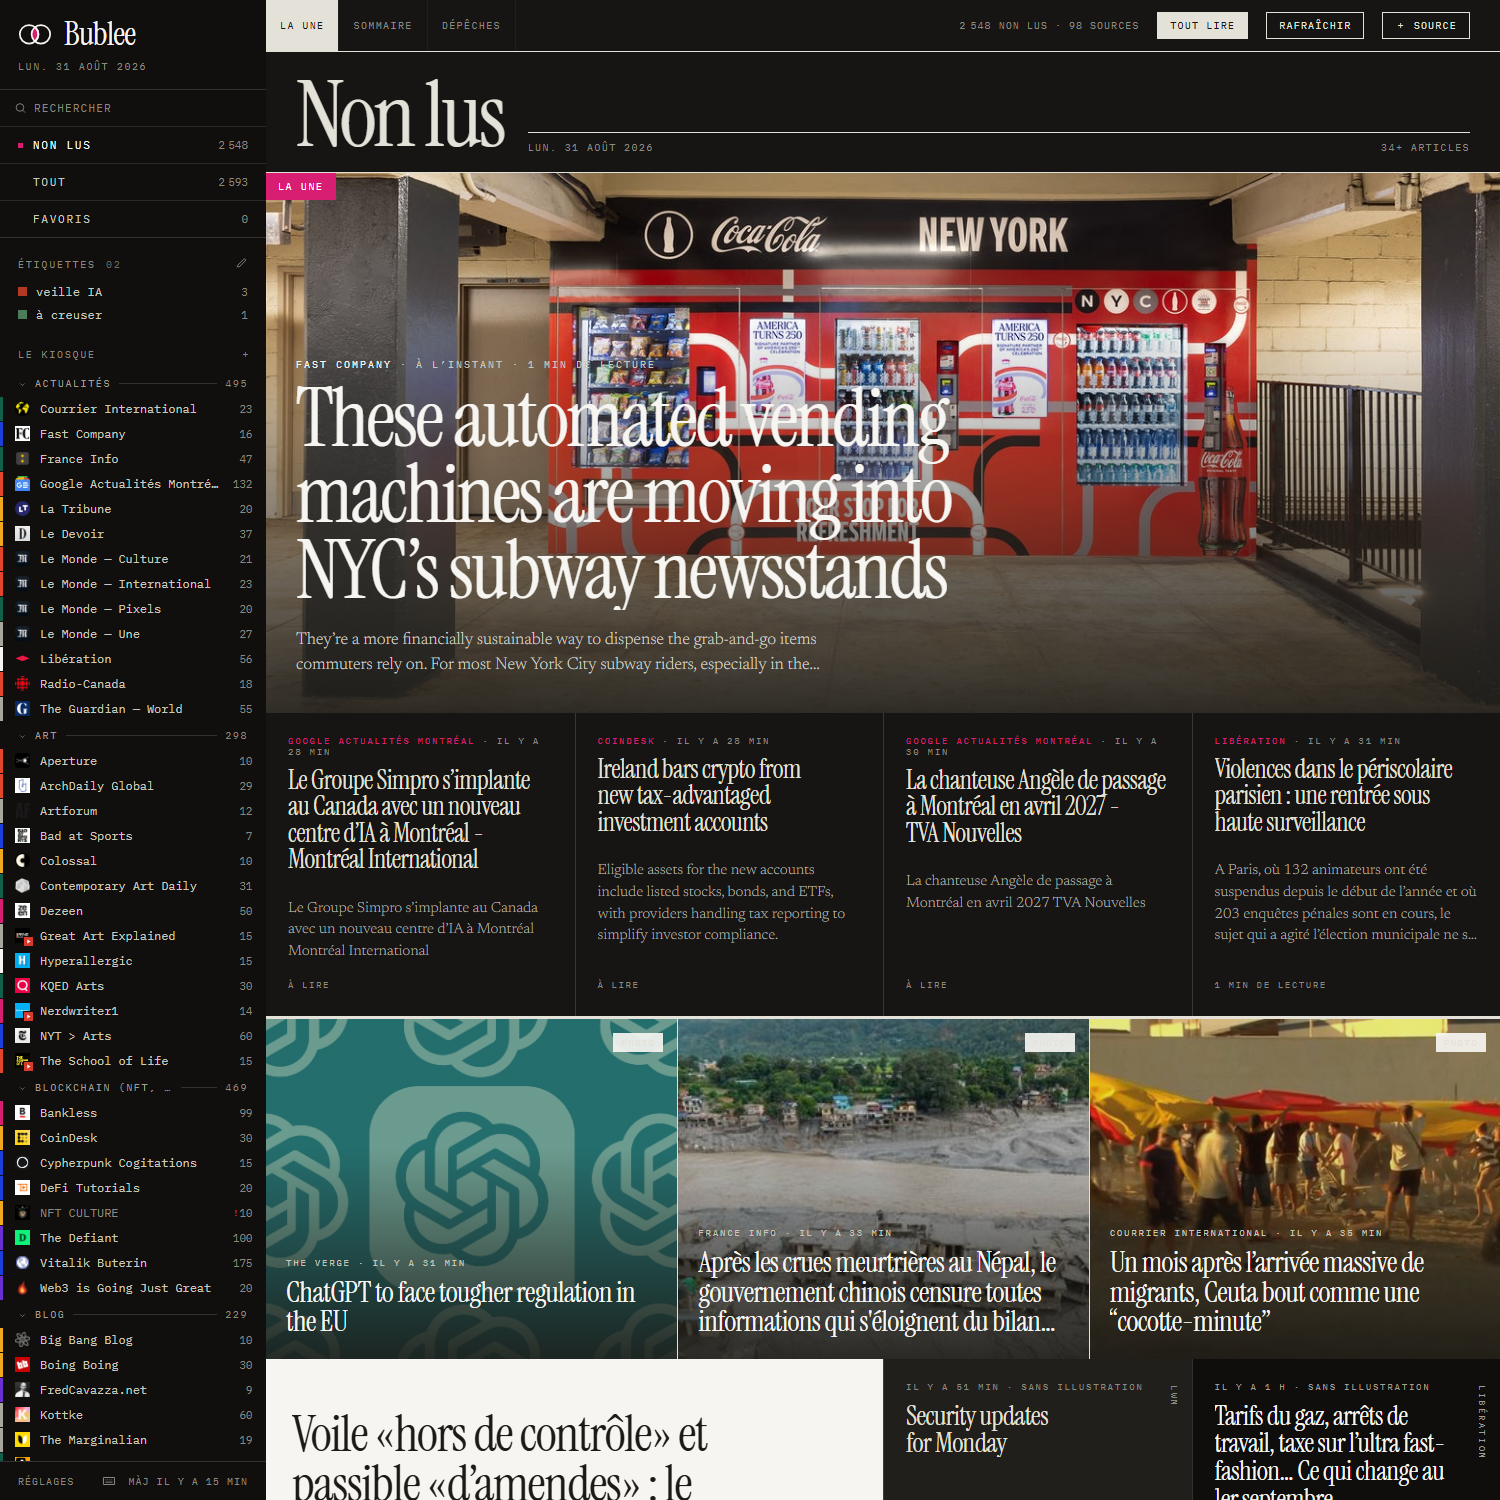
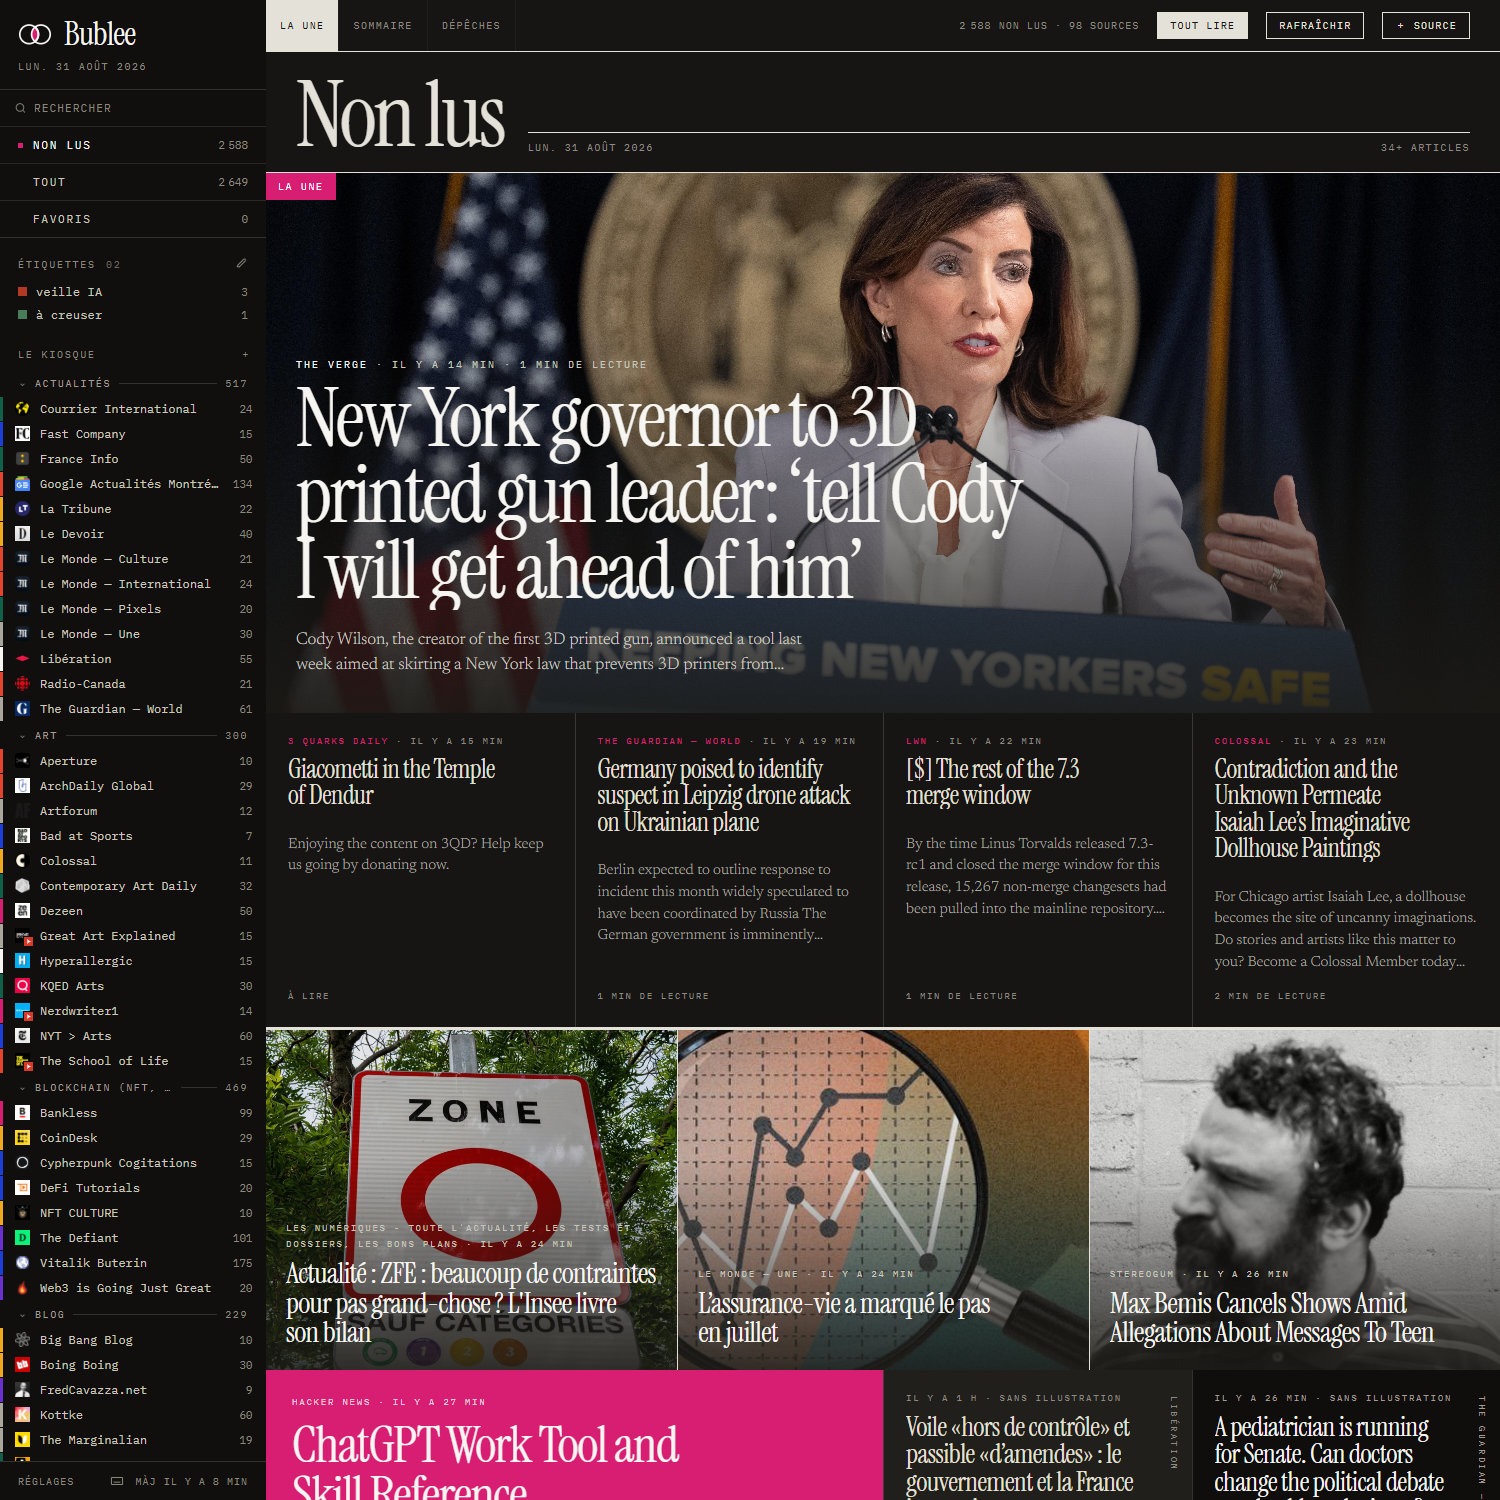
Partage depuis les vues, pictogrammes, et plus de pastille « photo »
Le libellé « ＋ Étiquette » prenait la largeur d'un titre de dépêche. Deux
pictogrammes le remplacent — une étiquette, un partage — séparés d'un filet
comme partout ailleurs dans la page : 56 px au lieu de 110.

Le partage ouvre les destinations : courriel, WhatsApp, Telegram, copier le
lien, et la feuille de partage du système sur les navigateurs qui la portent.
Cette dernière ligne n'apparaît que si navigator.share existe vraiment —
un bouton qui ne ferait rien est pire que pas de bouton. `P` fait la même
chose sur l'article au curseur, ou sur celui qu'on lit, en s'ancrant alors à
la barre du lecteur puisque la carte est cachée derrière le panneau.

Rien n'est envoyé par Bublee : chaque destination ouvre sa propre fenêtre de
rédaction, pré-remplie du titre et du lien.

Le glyphe de partage est celui que tout le monde lit — trois nœuds reliés —
plutôt que la flèche sortant d'un bac, ambiguë à 14 px. Ses nœuds sont pleins :
en anneaux ils se refermeraient en taches à cette taille.

Enfin, le mur d'images n'annonce plus « photo » sur chaque image. La pastille
ne sert qu'à dire ce qui ne se voit pas : la durée d'une vidéo ou d'un son.

diff --git a/public/js/app.js b/public/js/app.js
@@ -369,7 +369,9 @@ function blocMur(liste) {
       ? `<span class="badge video">▶ ${esc(duree(a.duration) || 'vidéo')}</span>`
       : estAudio(a)
         ? `<span class="badge audio">◆ ${esc(duree(a.duration))}</span>`
-        : '<span class="badge">Photo</span>';
+        // Une image dans un mur d'images n'a pas besoin qu'on la dise image.
+        // La pastille ne sert qu'à annoncer ce qui ne se voit pas : une durée.
+        : '';
     return `
       <button class="tuile art${classeLue(a)}${curseur(a)}" ${attrs(a)} data-open="${a.id}">
         <img src="${esc(relais(a.image))}" alt="" loading="lazy">
@@ -773,7 +775,7 @@ function marquerSurvol(carte) {
 
 function survolCarte(carte) {
   const zone = $('#artActions');
-  if (popId !== null) return;                       // pendant l'édition, il ne bouge plus
+  if (popId !== null || partageId !== null) return;  // un popover ouvert le fige
   if (!carte) { zone.hidden = true; marquerSurvol(null); return; }
   marquerSurvol(carte);
 
@@ -811,19 +813,13 @@ function renderPopTags() {
 
 function ouvrirPopTags(id, ancre) {
   if (!state.articles.some((a) => a.id === id)) return;
+  fermerPartage();
   popId = id;
   const pop = $('#tagPop');
   pop.hidden = false;
   renderPopTags();
 
-  // Le popover se pose sous l'ancre, ou au-dessus s'il n'y a pas la place.
-  const r = ancre.getBoundingClientRect();
-  const largeur = pop.offsetWidth;
-  const hauteur = pop.offsetHeight;
-  pop.style.left = Math.round(Math.min(Math.max(10, r.right - largeur), innerWidth - largeur - 10)) + 'px';
-  pop.style.top = Math.round(r.bottom + 8 + hauteur < innerHeight
-    ? r.bottom + 8
-    : Math.max(10, r.top - 8 - hauteur)) + 'px';
+  poserContre(pop, ancre);
 
   $('#tagPopInput').value = '';
   $('#tagPopInput').focus();
@@ -835,6 +831,99 @@ function fermerPopTags() {
   $('#tagPop').hidden = true;
   $('#artActions').hidden = true;
   marquerSurvol(null);
+}
+
+/* ------------------------------------------------------------- partager --- */
+
+let partageId = null;
+
+/** Pose un popover contre son ancre : dessous s'il y a la place, dessus sinon. */
+function poserContre(pop, ancre) {
+  const r = ancre.getBoundingClientRect();
+  const l = pop.offsetWidth;
+  const h = pop.offsetHeight;
+  pop.style.left = Math.round(Math.min(Math.max(10, r.right - l), innerWidth - l - 10)) + 'px';
+  pop.style.top = Math.round(r.bottom + 8 + h < innerHeight ? r.bottom + 8 : Math.max(10, r.top - 8 - h)) + 'px';
+}
+
+function ouvrirPartage(id, ancre) {
+  const a = state.articles.find((x) => x.id === id);
+  if (!a || !a.url) { toast('Cet article n’a pas de lien à partager.', 'bad'); return; }
+  fermerPopTags();
+  partageId = id;
+
+  const pop = $('#sharePop');
+  $('#sharePopTitre').textContent = a.title;
+  // La feuille de partage du système n'existe pas partout : on ne propose la
+  // ligne que si le navigateur la porte vraiment.
+  $('[data-partage="systeme"]', pop).hidden = typeof navigator.share !== 'function';
+  pop.hidden = false;
+  poserContre(pop, ancre);
+  $('[data-partage]:not([hidden])', pop)?.focus();
+}
+
+function fermerPartage() {
+  if (partageId === null) return;
+  partageId = null;
+  $('#sharePop').hidden = true;
+  $('#artActions').hidden = true;
+  marquerSurvol(null);
+}
+
+/**
+ * Ouvre le canal choisi avec l'article pré-rempli. Rien n'est envoyé d'ici :
+ * chaque destination ouvre sa propre fenêtre de rédaction, c'est toi qui postes.
+ */
+async function partager(canal) {
+  const a = state.articles.find((x) => x.id === partageId);
+  if (!a) return;
+  const titre = a.title;
+  const lien = a.url;
+  const texte = `${titre}\n${lien}`;
+
+  if (canal === 'copier') {
+    try {
+      await navigator.clipboard.writeText(lien);
+      toast('Lien copié.');
+    } catch (error) {
+      toast('Copie refusée par le navigateur : ' + error.message, 'bad');
+    }
+    fermerPartage();
+    return;
+  }
+
+  if (canal === 'systeme') {
+    try {
+      await navigator.share({ title: titre, text: titre, url: lien });
+    } catch (error) {
+      // L'utilisateur qui referme la feuille lève AbortError : ce n'est pas une panne.
+      if (error.name !== 'AbortError') toast('Partage : ' + error.message, 'bad');
+    }
+    fermerPartage();
+    return;
+  }
+
+  const destinations = {
+    mail: () => {
+      location.href = `mailto:?subject=${encodeURIComponent(titre)}&body=${encodeURIComponent(texte)}`;
+    },
+    whatsapp: () => window.open('https://wa.me/?text=' + encodeURIComponent(texte), '_blank', 'noopener'),
+    telegram: () => window.open(
+      `https://t.me/share/url?url=${encodeURIComponent(lien)}&text=${encodeURIComponent(titre)}`,
+      '_blank', 'noopener'
+    )
+  };
+  destinations[canal]?.();
+  fermerPartage();
+}
+
+/** Ouvre le partage sur l'article au curseur — ce que fait `P` hors lecteur. */
+function partageSurCurseur() {
+  const id = articleCourant();
+  if (id === null) return;
+  // Lecteur ouvert : on s'ancre à sa barre, la carte est cachée derrière.
+  const ancre = state.openId === id ? $('.reader-bar') : $(`.art[data-id="${id}"]`);
+  if (ancre) ouvrirPartage(id, ancre);
 }
 
 /** Ouvre le popover sur l'article au curseur — c'est ce que fait `T` hors lecteur. */
@@ -933,6 +1022,7 @@ function onKey(event) {
   const key = event.key;
 
   if (key === 'Escape') {
+    if (partageId !== null) return fermerPartage();
     if (popId !== null) return fermerPopTags();
     if (!$('#reader').hidden) return closeReader();
     if (!$('#modalShade').hidden) return closeModals();
@@ -993,6 +1083,8 @@ function onKey(event) {
     if (a?.url) window.open(a.url, '_blank', 'noopener');
     return;
   }
+  if (key === 'p') { event.preventDefault(); partageSurCurseur(); return; }
+
   // `T` étiquette : le champ du lecteur s'il est ouvert, sinon l'article au curseur.
   if (key === 't') {
     event.preventDefault();
@@ -1380,11 +1472,19 @@ function wireEvents() {
     survolCarte(e.target.closest('.art'));
   });
   scroller.addEventListener('pointerleave', () => survolCarte(null));
-  scroller.addEventListener('scroll', () => { if (popId !== null) fermerPopTags(); });
+  scroller.addEventListener('scroll', () => { fermerPopTags(); fermerPartage(); });
 
   $('#artTagBtn').addEventListener('click', (e) => {
     e.stopPropagation();
     ouvrirPopTags(Number($('#artActions').dataset.id), $('#artActions'));
+  });
+  $('#artShareBtn').addEventListener('click', (e) => {
+    e.stopPropagation();
+    ouvrirPartage(Number($('#artActions').dataset.id), $('#artActions'));
+  });
+  $('#sharePop').addEventListener('click', (e) => {
+    const ligne = e.target.closest('[data-partage]');
+    if (ligne) partager(ligne.dataset.partage);
   });
 
   $('#tagPop').addEventListener('click', (e) => {
@@ -1407,9 +1507,10 @@ function wireEvents() {
 
   // Un clic ailleurs referme — mais pas celui qui vient de l'ouvrir.
   document.addEventListener('pointerdown', (e) => {
-    if (popId === null) return;
-    if (e.target.closest('#tagPop') || e.target.closest('#artActions')) return;
+    if (popId === null && partageId === null) return;
+    if (e.target.closest('#tagPop') || e.target.closest('#sharePop') || e.target.closest('#artActions')) return;
     fermerPopTags();
+    fermerPartage();
   });
 
   $('#flux').addEventListener('click', (e) => {

diff --git a/public/index.html b/public/index.html
@@ -135,7 +135,18 @@
       <!-- Flotte au coin de la carte survolée : une carte est déjà un <button>,
            on ne peut pas en imbriquer un second dedans. -->
       <div class="art-actions" id="artActions" hidden>
-        <button type="button" id="artTagBtn" title="Étiqueter sans ouvrir (T)">＋ Étiquette</button>
+        <button type="button" id="artTagBtn" title="Étiqueter sans ouvrir (T)" aria-label="Étiqueter">
+          <svg viewBox="0 0 24 24" aria-hidden="true">
+            <path d="M3 3h8.2l9.3 9.3a1.6 1.6 0 0 1 0 2.3l-6 6a1.6 1.6 0 0 1-2.3 0L3 11.2Z"/>
+            <path d="M7.4 7.4h.01"/>
+          </svg>
+        </button>
+        <button type="button" id="artShareBtn" title="Partager (P)" aria-label="Partager">
+          <svg class="glyphe-partage" viewBox="0 0 24 24" aria-hidden="true">
+            <path d="m8.4 10.7 7.2-4.2M8.4 13.3l7.2 4.2"/>
+            <circle cx="18" cy="5.2" r="2.8"/><circle cx="6" cy="12" r="2.8"/><circle cx="18" cy="18.8" r="2.8"/>
+          </svg>
+        </button>
       </div>
     </div>
   </main>
@@ -166,6 +177,22 @@
   <div class="tagpop-list" id="tagPopList"></div>
   <input class="tagpop-input" id="tagPopInput" list="tagOptions" autocomplete="off"
          placeholder="Nouvelle étiquette" aria-label="Créer une étiquette" maxlength="60">
+</div>
+
+<div class="tagpop" id="sharePop" hidden role="dialog" aria-label="Partager l’article">
+  <p class="tagpop-titre" id="sharePopTitre"></p>
+  <div class="tagpop-list">
+    <button type="button" class="tagpop-row" data-partage="systeme" hidden>
+      <span class="tagpop-nom">Partager…</span></button>
+    <button type="button" class="tagpop-row" data-partage="mail">
+      <span class="tagpop-nom">Courriel</span></button>
+    <button type="button" class="tagpop-row" data-partage="whatsapp">
+      <span class="tagpop-nom">WhatsApp</span></button>
+    <button type="button" class="tagpop-row" data-partage="telegram">
+      <span class="tagpop-nom">Telegram</span></button>
+    <button type="button" class="tagpop-row" data-partage="copier">
+      <span class="tagpop-nom">Copier le lien</span></button>
+  </div>
 </div>
 
 <!-- ============================================================= fenêtres -->
@@ -282,6 +309,7 @@
         <dt><kbd>M</kbd></dt><dd>lu / non lu</dd>
         <dt><kbd>S</kbd></dt><dd>favori</dd>
         <dt><kbd>T</kbd></dt><dd>étiqueter — l’article ouvert, ou celui au curseur</dd>
+        <dt><kbd>P</kbd></dt><dd>partager l’article au curseur</dd>
         <dt><kbd>V</kbd></dt><dd>original</dd>
         <dt><kbd>F</kbd></dt><dd>texte complet</dd>
       </dl>

diff --git a/public/styles.css b/public/styles.css
@@ -927,17 +927,24 @@ h1, h2, h3, p, dl, dd, figure { margin: 0; }
 .dep.survol .dep-heure, .dep.survol .dep-source, .dep.survol .dep-duree { color: var(--bone); }
 .fil.survol { background: var(--bone-2); }
 
-.art-actions { position: absolute; z-index: 6; }
+/* Deux pictogrammes côte à côte, séparés d'un filet — comme partout ailleurs
+   dans la page. Le libellé écrit prenait la largeur d'un titre de dépêche. */
+.art-actions { position: absolute; z-index: 6; display: flex; }
 .art-actions button {
-  padding: 5px 10px;
+  display: grid; place-items: center; width: 28px; height: 26px;
   background: var(--ink-deep); color: #f6f5f1;
-  font-family: var(--mono); font-size: 9px; letter-spacing: .16em; text-transform: uppercase;
   transition: background .18s var(--ease);
 }
+.art-actions button + button { box-shadow: -1px 0 0 rgba(246, 245, 241, .22); }
+.art-actions svg { width: 14px; height: 14px; stroke-width: 1.6; }
+/* Les trois nœuds du glyphe de partage sont pleins : à 14 px, des anneaux se
+   refermeraient en taches et on ne lirait plus la figure. */
+.glyphe-partage circle { fill: currentColor; stroke: none; }
 .art-actions button:hover { background: var(--accent); }
-/* Une dépêche survolée s'inverse en encre : le bouton s'inverse à son tour,
-   sinon il disparaîtrait dans la ligne. */
+/* Une dépêche survolée s'inverse en encre : les boutons s'inversent à leur tour,
+   sinon ils disparaîtraient dans la ligne. */
 .art-actions.sur-depeche button { background: var(--paper); color: var(--ink-deep); }
+.art-actions.sur-depeche button + button { box-shadow: -1px 0 0 rgba(27, 26, 23, .22); }
 .art-actions.sur-depeche button:hover { background: var(--accent); color: #fff; }
 
 /* Le popover d'étiquetage. */

diff --git a/README.md b/README.md
@@ -325,6 +325,19 @@ player YouTube — en `youtube-nocookie.com`, sans quitter Bublee. Les liens et
 les chapitres de la description restent cliquables. Ni temps de lecture ni
 récupération de texte complet sur une vidéo : ça n'aurait pas de sens.
 
+## Partager
+
+Le second pictogramme du coin d'une carte ouvre les destinations : **courriel**,
+**WhatsApp**, **Telegram**, **copier le lien** — et, sur les navigateurs qui la
+portent, la **feuille de partage du système**, qui donne accès à tout ce qui est
+installé sur la machine. <kbd>P</kbd> fait la même chose sur l'article au
+curseur, ou sur celui qu'on est en train de lire.
+
+Rien n'est envoyé par Bublee : chaque destination ouvre sa propre fenêtre de
+rédaction, pré-remplie du titre et du lien. C'est toi qui postes. La ligne
+« Partager… » n'apparaît que si le navigateur porte vraiment l'API — pas de
+bouton qui ne ferait rien.
+
 ## Podcasts
 
 Un podcast, c'est un flux RSS. Colle son adresse et Bublee en fait des
@@ -349,11 +362,12 @@ celui-là qu'il faut donner à Bublee.
 Poser une étiquette sur un article, c'est le retrouver ensuite — dans
 l'interface comme par l'API.
 
-- **Sans ouvrir l'article** : au survol d'une carte, un bouton « ＋ Étiquette »
-  apparaît dans son coin, et ouvre la liste des étiquettes — un clic pose ou
-  retire, le champ du bas en crée une. <kbd>T</kbd> fait la même chose sur
-  l'article au curseur. Les étiquettes posées s'affichent ensuite dans la carte
-  elle-même, dans les trois mises en page.
+- **Sans ouvrir l'article** : au survol d'une carte, deux pictogrammes
+  apparaissent dans son coin — une étiquette et un partage. Le premier ouvre la
+  liste des étiquettes : un clic pose ou retire, le champ du bas en crée une.
+  <kbd>T</kbd> fait la même chose sur l'article au curseur. Les étiquettes
+  posées s'affichent ensuite dans la carte elle-même, dans les trois mises en
+  page.
 - Le bouton ne se superpose à rien : là où la carte porte déjà une méta à
   droite — la source d'une dépêche, la durée d'un aplat — cette méta s'efface le
   temps du survol et le bouton prend sa place. Rien ne bouge, rien ne se
@@ -411,6 +425,7 @@ de clavier en bas de la colonne de gauche.
 | `Maj+A` | tout marquer comme lu |
 | `G` | changer de mise en page |
 | `T` | étiqueter — l’article ouvert, ou celui au curseur dans la liste |
+| `P` | partager l’article au curseur |
 | `/` | rechercher |
 | `,` | réglages |
 | `?` | aide-mémoire |
